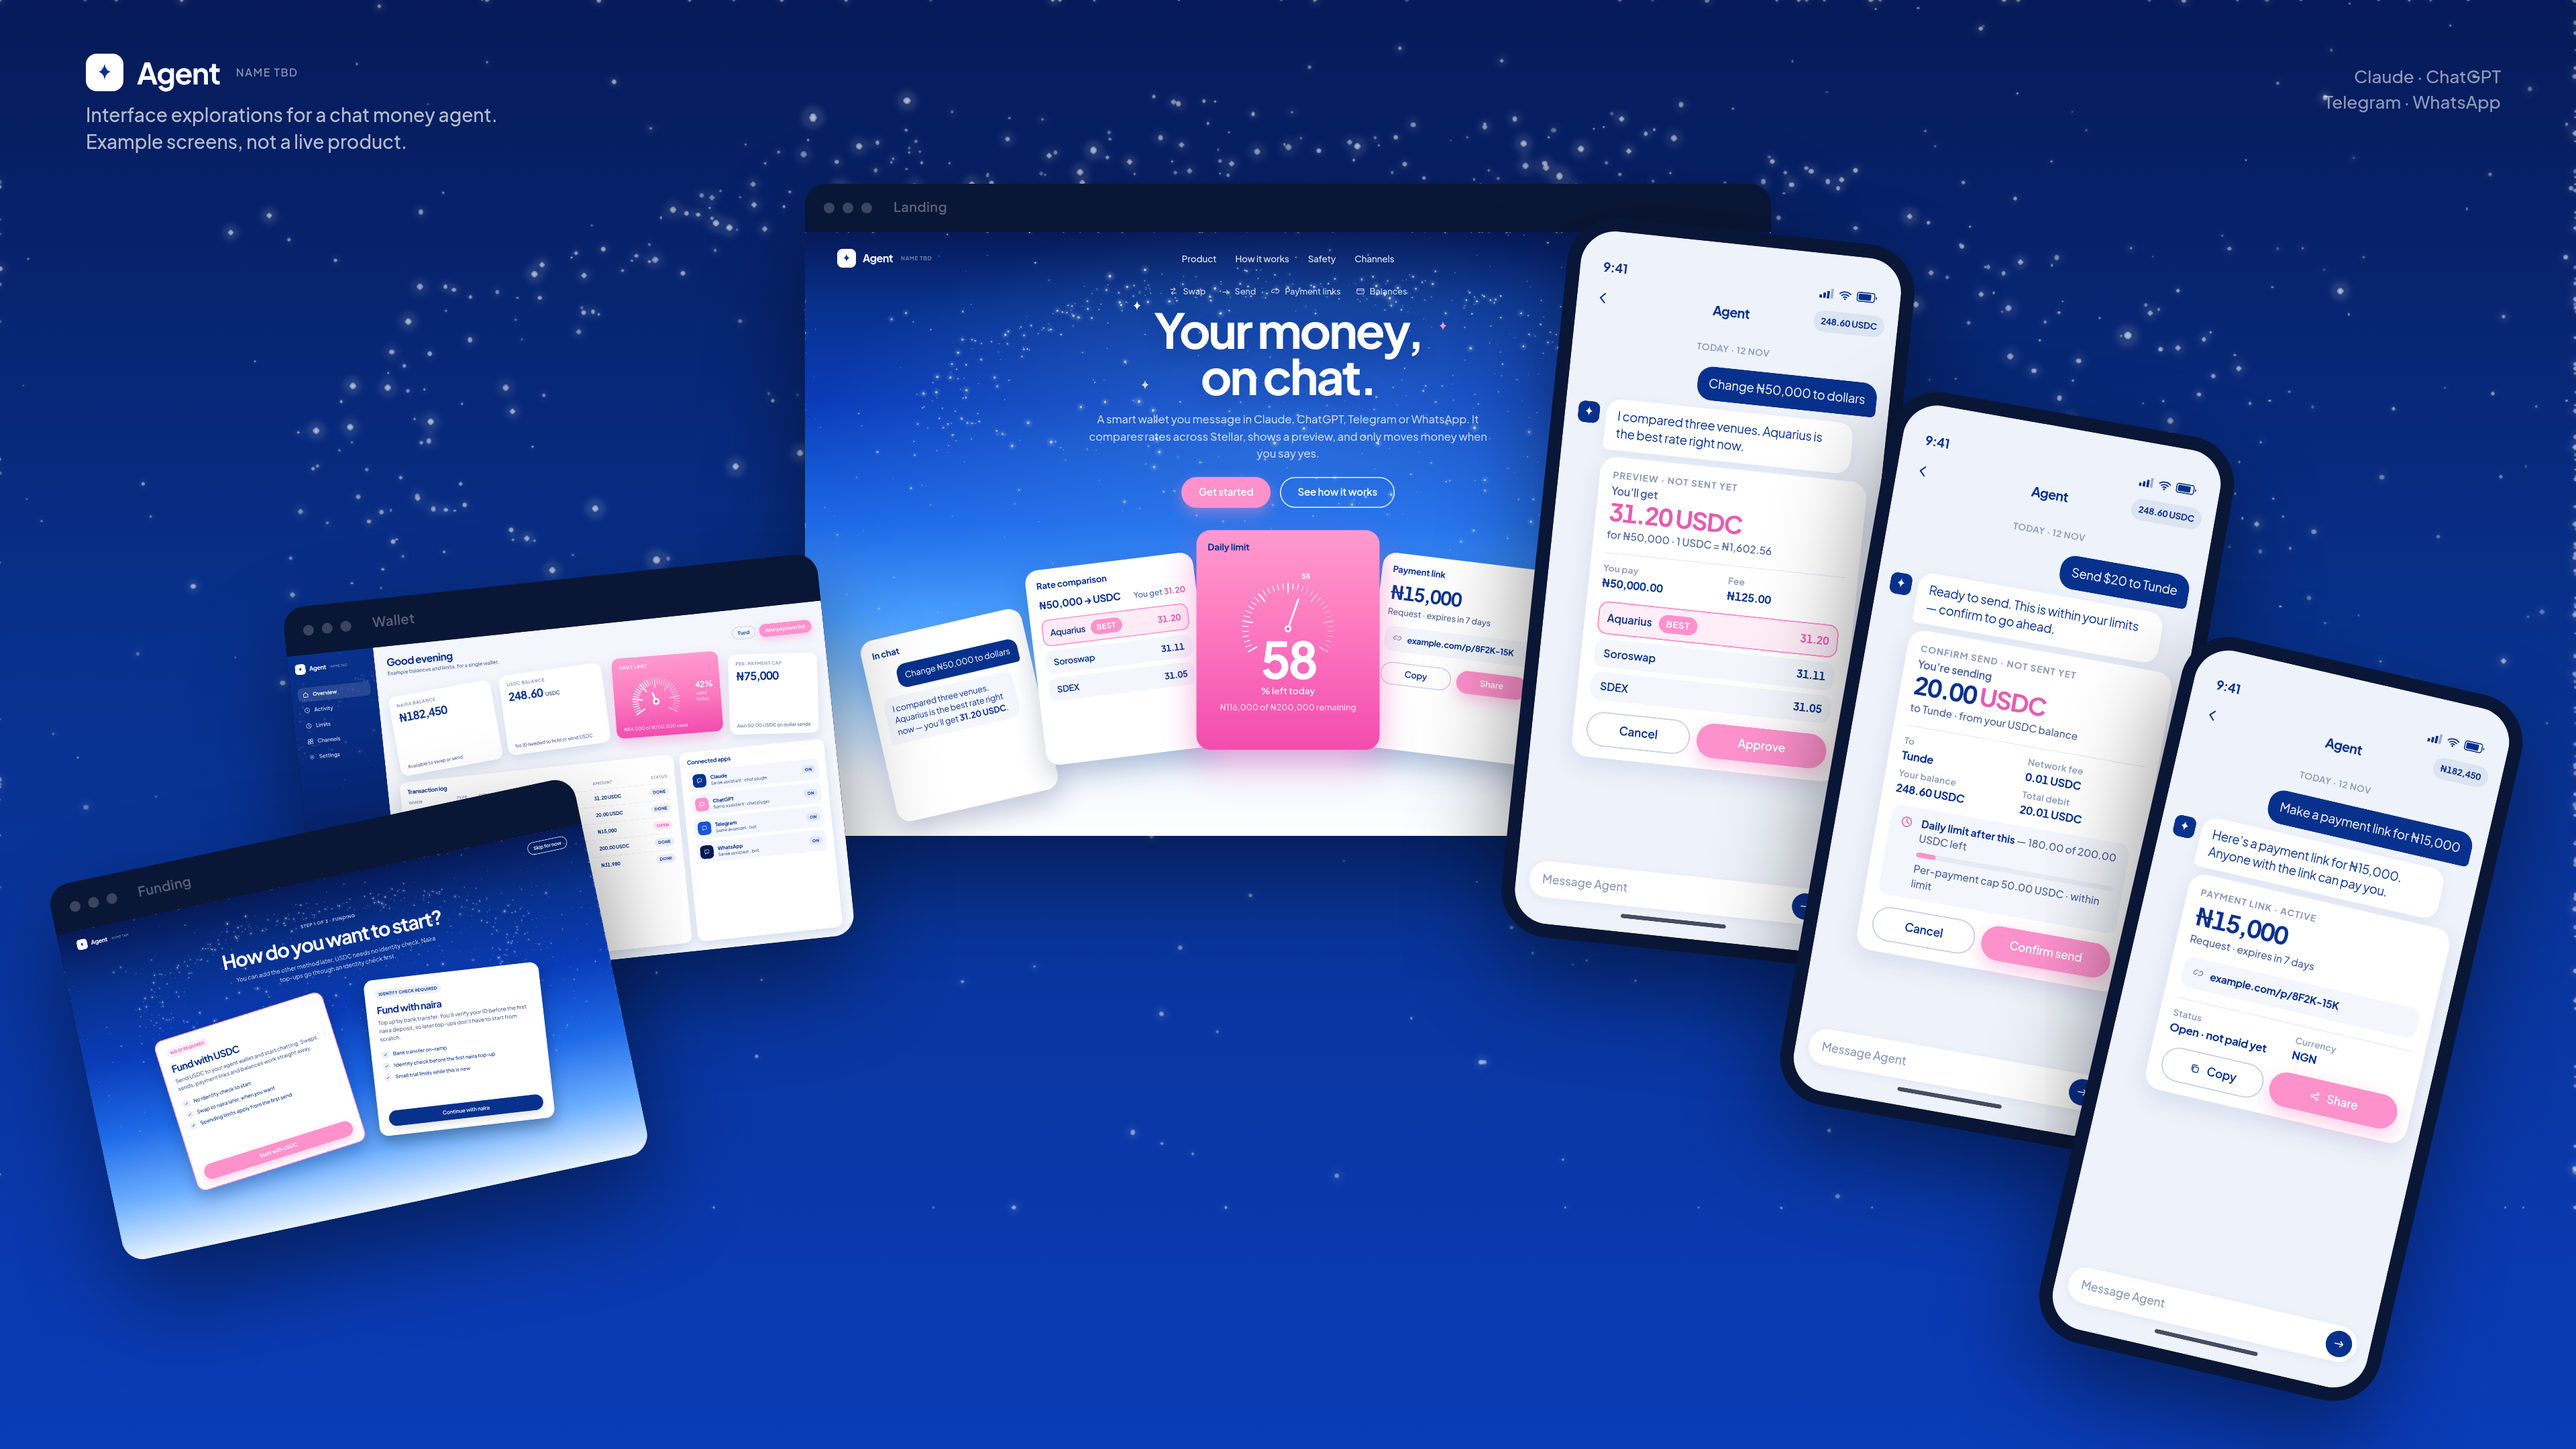
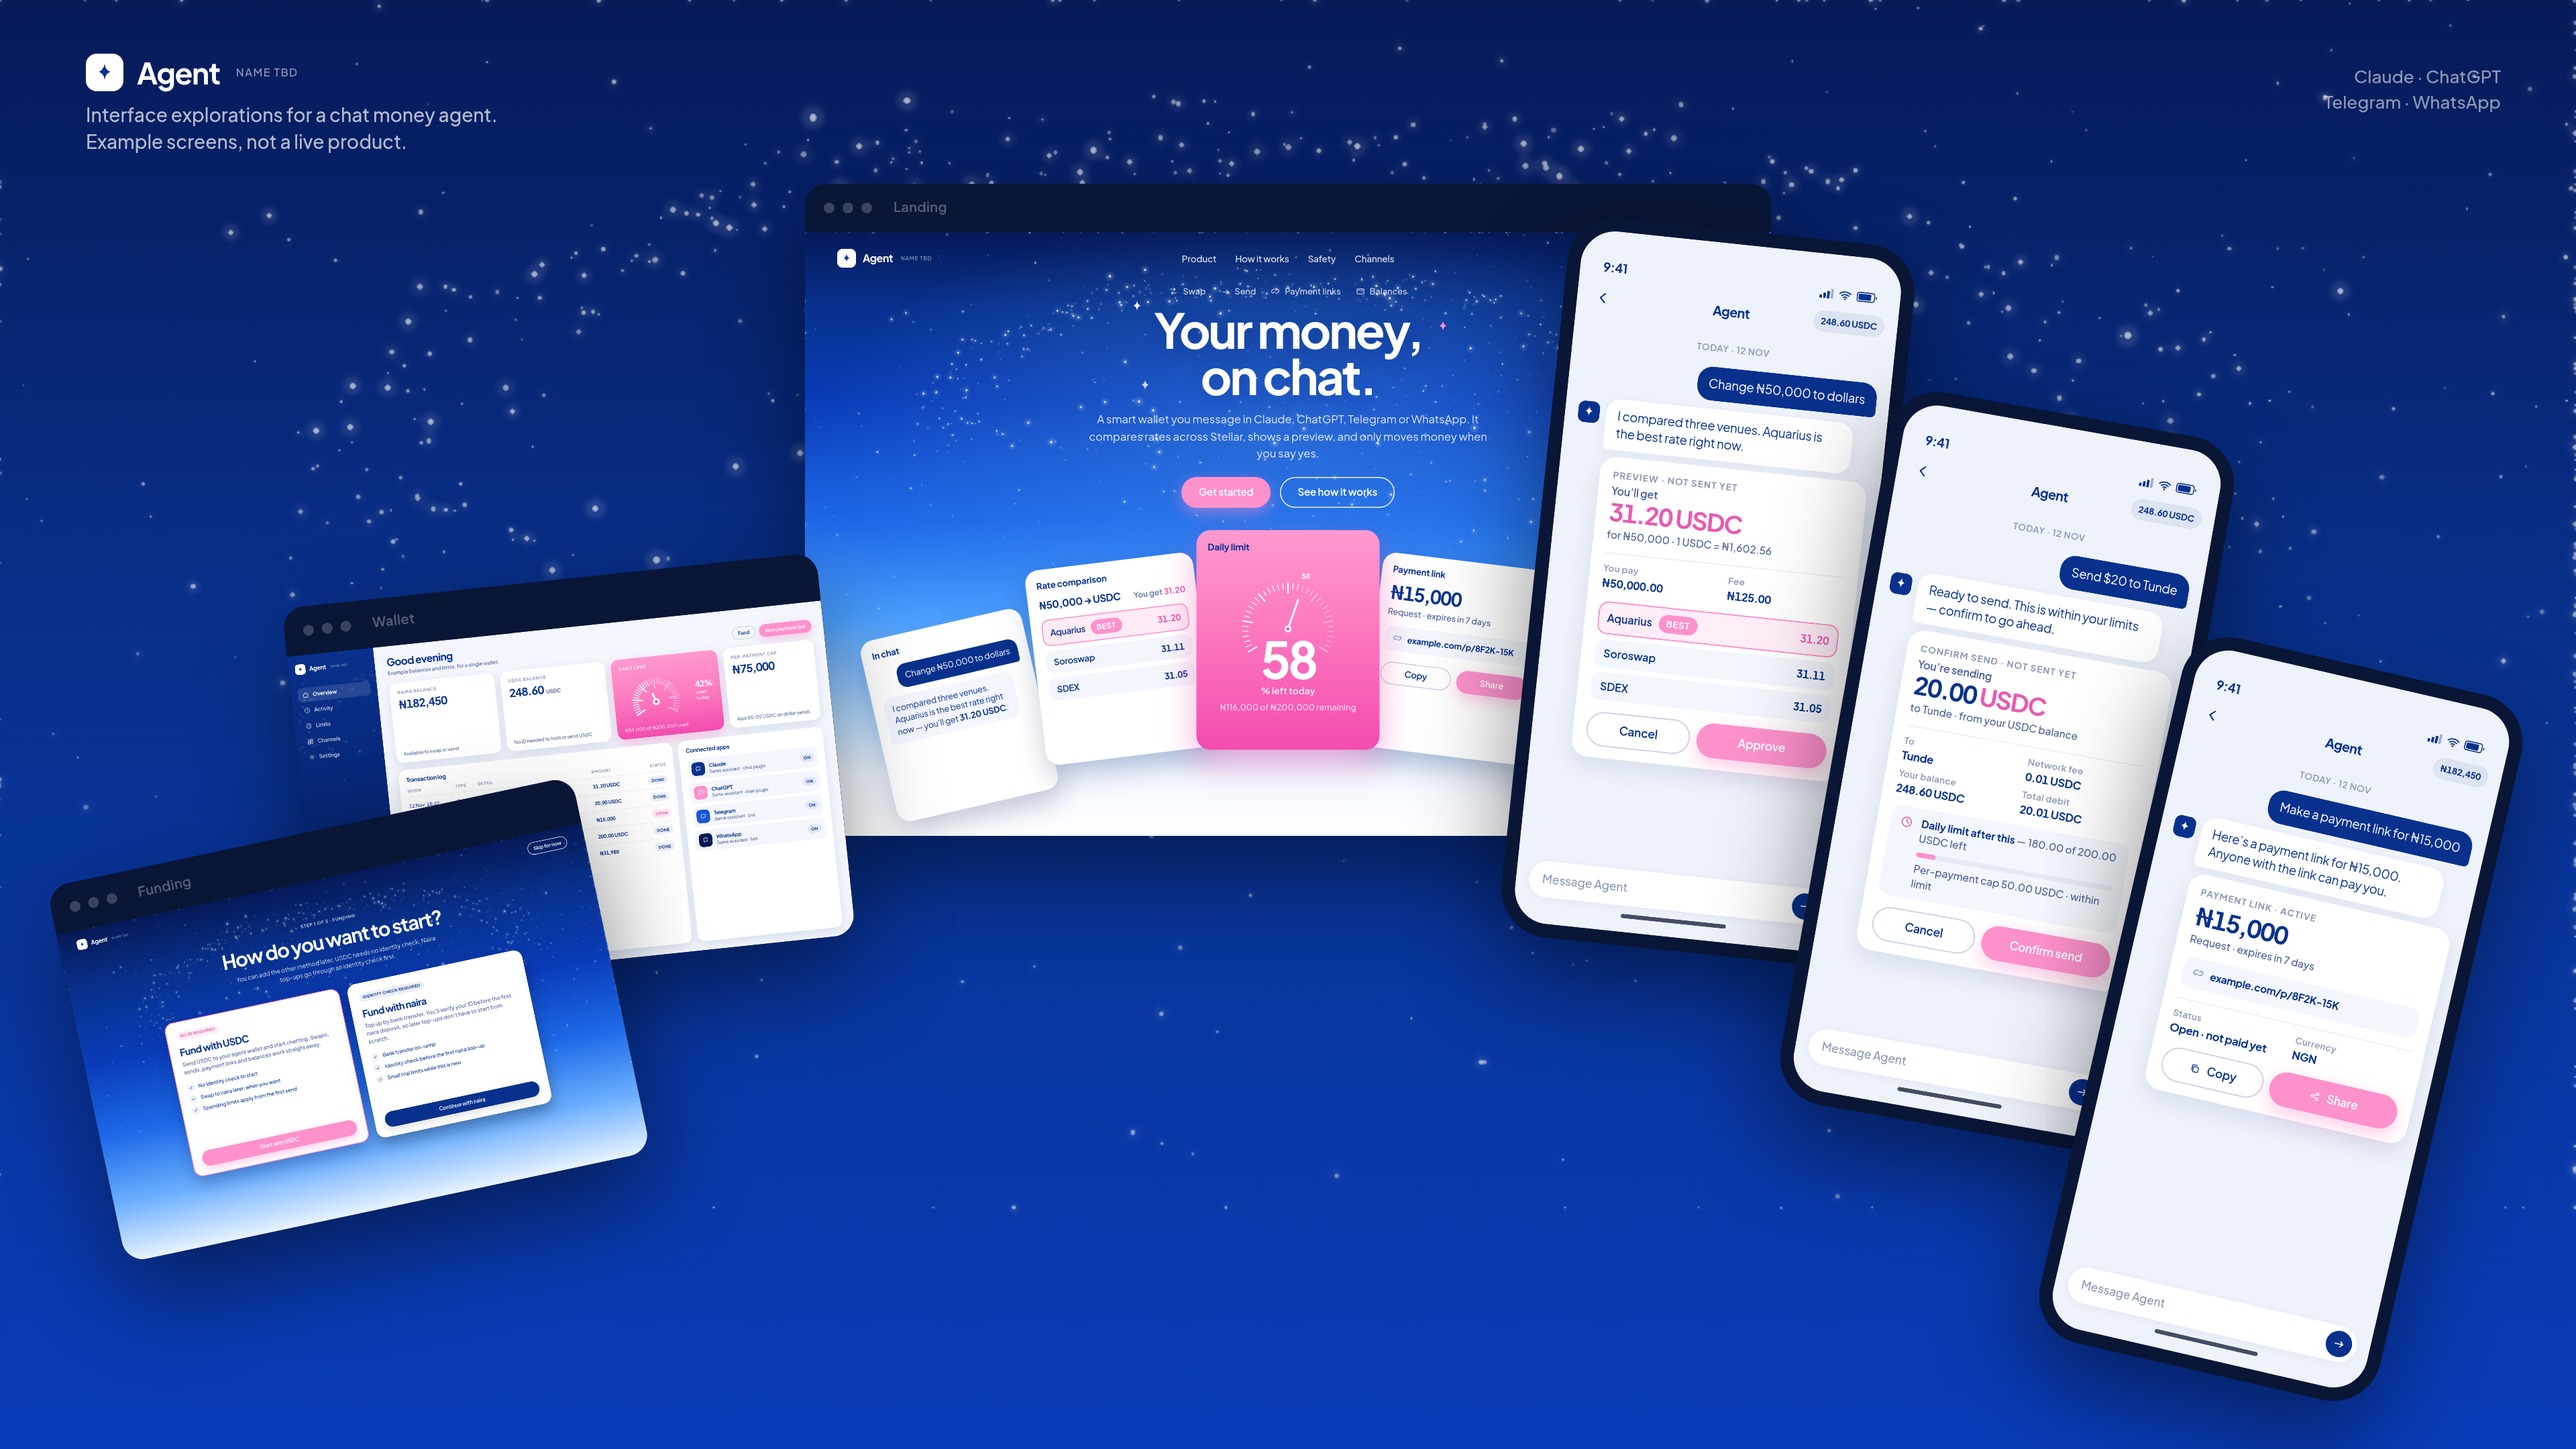
Keep the half-moon card arc on the landing page only
Revert the dashboard and onboarding cards to a level grid, refresh
those shots and the overview thumbs, and note the same in the design
README and Claude build prompt.

diff --git a/design/src/styles.css b/design/src/styles.css
@@ -903,13 +903,7 @@ body.dash {
   display: grid;
   grid-template-columns: 1.1fr 1.1fr 1.05fr 0.95fr;
   gap: 16px;
-  align-items: stretch;
-  padding: 10px 8px 22px;
 }
-.kpis .kpi:nth-child(1) { transform: rotate(-4.5deg) translateY(16px); transform-origin: 50% 100%; }
-.kpis .kpi:nth-child(2) { transform: rotate(-2deg) translateY(-4px); transform-origin: 50% 100%; }
-.kpis .kpi:nth-child(3) { transform: rotate(1.5deg) translateY(-10px); transform-origin: 50% 100%; z-index: 2; }
-.kpis .kpi:nth-child(4) { transform: rotate(4.5deg) translateY(16px); transform-origin: 50% 100%; }
 .kpi {
   background: #fff;
   border-radius: 20px;
@@ -1079,20 +1073,11 @@ body.onboard {
 .fund-grid {
   position: relative;
   z-index: 4;
-  margin: 48px auto 0;
+  margin: 40px auto 0;
   width: 980px;
   display: grid;
   grid-template-columns: 1fr 1fr;
-  gap: 36px;
-  padding-bottom: 12px;
-}
-.fund-grid .fund-card.featured {
-  transform: rotate(-5.5deg) translateY(10px);
-  transform-origin: 50% 100%;
-}
-.fund-grid .fund-card:not(.featured) {
-  transform: rotate(5.5deg) translateY(10px);
-  transform-origin: 50% 100%;
+  gap: 22px;
 }
 .fund-card .pill { height: 24px; padding: 0 10px; align-self: flex-start; }
 .fund-card {

diff --git a/docs/claude-build-prompt.md b/docs/claude-build-prompt.md
@@ -11,7 +11,7 @@ You are building the first web app for **Agent**, a working name (the public pro
 Read these before writing code:
 
 - `design/README.md` and every PNG in `design/shots/` — this is the look and the screens to match
-- `design/src/` — HTML/CSS sources for those screens (Plus Jakarta Sans, starfield, half-moon card layout)
+- `design/src/` — HTML/CSS sources for those screens (Plus Jakarta Sans, starfield, half-moon card layout on the landing page only)
 - `docs/concept.md` — what the product is
 - `docs/routing.md` — the agent compares rates itself; StellarRoute is not a live dependency
 - `docs/kyc-and-funding.md` — USDC needs no ID; naira needs an identity check before the first top-up
@@ -20,7 +20,7 @@ Read these before writing code:
 
 ## What to build
 
-A Next.js (App Router) app with Tailwind, TypeScript, deployable to Vercel. Match the designs closely: deep blue `#08318D` / `#092D8E`, white, bubblegum pink `#FD91CC`, Plus Jakarta Sans (or Inter), solid white cards with 16–24px radius and soft deep shadows, pill buttons, starfield on blue heroes, half-moon card arcs on the landing and a gentle arc on the dashboard stats and onboarding cards. No glassmorphism. No official Claude / ChatGPT / Telegram / WhatsApp logos — text labels and simple generic icons only.
+A Next.js (App Router) app with Tailwind, TypeScript, deployable to Vercel. Match the designs closely: deep blue `#08318D` / `#092D8E`, white, bubblegum pink `#FD91CC`, Plus Jakarta Sans (or Inter), solid white cards with 16–24px radius and soft deep shadows, pill buttons, starfield on blue heroes, half-moon card arc on the **landing page only**. Dashboard, onboarding, chat and other app screens use a normal, level grid — do not rotate those cards. No glassmorphism. No official Claude / ChatGPT / Telegram / WhatsApp logos — text labels and simple generic icons only.
 
 Placeholder wordmark: **Agent**, with a small “name TBD” where the mocks show it.
 
@@ -28,11 +28,11 @@ Placeholder wordmark: **Agent**, with a small “name TBD” where the mocks sho
 
 1. **Landing** — match `design/shots/01-landing-desktop.png`. Headline: “Your money, on chat.” Five bento cards on a half-moon (centre highest, sides rotated about ±7° and ±13°): chat snippet, rate comparison, pink daily-limit gauge, payment link, activity. CTAs go to sign-in / app.
 2. **Sign-in** — not in the PNG set; invent one screen in the same style. Email field, send code, enter the one-time code. Copy like “Sign in with email. We’ll create your Stellar wallet.” After success, create or reuse the Privy Stellar wallet and go to the wallet or onboarding.
-3. **Onboarding / fund choice** — match `design/shots/06-onboarding-verify-once.png`. Two cards: **Fund with USDC** (no ID) and **Fund with naira** (identity check before the first naira deposit; do not promise Paycrest will skip every future NIN until that is confirmed).
+3. **Onboarding / fund choice** — match `design/shots/06-onboarding-verify-once.png`. Two level cards side by side: **Fund with USDC** (no ID) and **Fund with naira** (identity check before the first naira deposit; do not promise Paycrest will skip every future NIN until that is confirmed).
 4. **Chat (swap approve)** — match `design/shots/02-chat-swap-approve.png`. User: “Change ₦50,000 to dollars.” Agent replies with a quote card comparing SDEX, Soroswap and Aquarius, best row highlighted, fee and “you get”, **Approve** and **Cancel**. Nothing is sent until Approve.
 5. **Chat (send confirm)** — match `design/shots/03-send-confirm.png`. User: “Send $20 to Tunde.” Confirmation with destination, fee, daily limit remaining, per-payment cap, Confirm / Cancel.
 6. **Chat (payment link)** — match `design/shots/04-payment-link.png`. User: “Make a payment link for ₦15,000.” Card with amount, a clearly fictional link on a reserved host (e.g. `example.com`), Copy / Share, status Open.
-7. **Wallet dashboard** — match `design/shots/05-dashboard-balance-limits.png`. NGN and USDC balances, daily limit gauge, per-payment cap, transaction log, connected apps list (Claude, ChatGPT, Telegram, WhatsApp as labels only).
+7. **Wallet dashboard** — match `design/shots/05-dashboard-balance-limits.png`. NGN and USDC balances, daily limit gauge, per-payment cap, transaction log, connected apps list (Claude, ChatGPT, Telegram, WhatsApp as labels only). Level card grid, no rotation.
 
 A simple signed-in shell (sidebar like the dashboard) is enough. Mobile chat can be a narrow column or a `/chat` route; it does not need a native app.
 

diff --git a/design/README.md b/design/README.md
@@ -16,7 +16,7 @@ The look follows a deep blue + white + bubblegum pink interface, with a glowing 
 - Cards: solid opaque white, 16–24px radius, soft deep shadows (`0 20px 40px rgba(0,0,0,.3)` and similar). No glassmorphism.
 - Buttons: pills. Primary on blue is pink or white; confirm actions in chat are pink; secondary is an outline.
 - Hero: deep blue fading to bright blue then white, with a glowing white particle / starfield arc.
-- Marketing and funding layouts arrange cards on a **half-moon arc**: the centre card sits highest and in front, mid cards a step lower at about ±7°, far cards lower still at about ±13°, evenly spaced along the curve.
+- The **landing page only** arranges its bento cards on a **half-moon arc**: the centre card sits highest and in front, mid cards a step lower at about ±7°, far cards lower still at about ±13°, evenly spaced along the curve. Dashboard, onboarding and chat screens use a normal, level grid — no rotation.
 
 ## Screens
 
@@ -24,13 +24,13 @@ All PNGs are under `shots/`. Desktop frames are 1440×900 at 2× (2880×1800). M
 
 | File | What it is |
 | --- | --- |
-| [shots/00-overview.png](shots/00-overview.png) | Collage of all screens on the blue starfield, arranged on a half-moon: landing at the apex, wallet and funding descending left, three phones descending right. |
+| [shots/00-overview.png](shots/00-overview.png) | Collage of all screens on the blue starfield. The frames themselves may sit on a half-moon; the landing thumbnail keeps its hero card arc, while the wallet and funding thumbnails are the level app layouts. |
 | [shots/01-landing-desktop.png](shots/01-landing-desktop.png) | Landing. Headline “Your money, on chat.” Five cards on a half-moon: chat snippet, rate comparison (Aquarius highlighted), pink daily-limit gauge at the centre, payment link, recent activity. |
 | [shots/02-chat-swap-approve.png](shots/02-chat-swap-approve.png) | Mobile chat. User says “Change ₦50,000 to dollars.” Agent shows a three-venue quote (Aquarius best, 31.20 USDC) with Approve / Cancel. |
 | [shots/03-send-confirm.png](shots/03-send-confirm.png) | Mobile chat. User says “Send $20 to Tunde.” Confirmation card with fee, daily limit remaining, and per-payment cap. |
 | [shots/04-payment-link.png](shots/04-payment-link.png) | Mobile chat. User asks for a ₦15,000 payment link. Card with a fictional `example.com` URL, Copy and Share. |
-| [shots/05-dashboard-balance-limits.png](shots/05-dashboard-balance-limits.png) | Desktop wallet. NGN and USDC balances, daily-limit gauge, per-payment cap, transaction log, connected apps (Claude, ChatGPT, Telegram, WhatsApp — text labels and generic icons only, not official logos). Stat cards sit on a gentle arc. |
-| [shots/06-onboarding-verify-once.png](shots/06-onboarding-verify-once.png) | Funding choice. USDC with no ID check, or naira with an identity check before the first top-up. The two cards fan outward on a shallow arc. |
+| [shots/05-dashboard-balance-limits.png](shots/05-dashboard-balance-limits.png) | Desktop wallet. NGN and USDC balances, daily-limit gauge, per-payment cap, transaction log, connected apps (Claude, ChatGPT, Telegram, WhatsApp — text labels and generic icons only, not official logos). Level grid, no card rotation. |
+| [shots/06-onboarding-verify-once.png](shots/06-onboarding-verify-once.png) | Funding choice. USDC with no ID check, or naira with an identity check before the first top-up. Two level cards side by side. |
 
 HTML/CSS sources, the starfield asset, fonts and the Playwright render script live in `src/`. To re-render: from `src/`, run `node render.mjs` (needs Playwright/Chrome). Do not add the original reference video to this repository.
 
